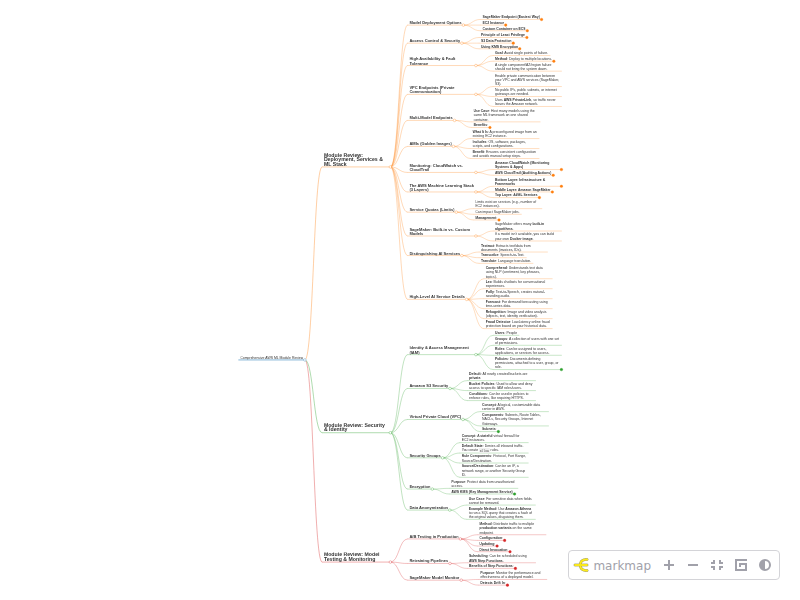
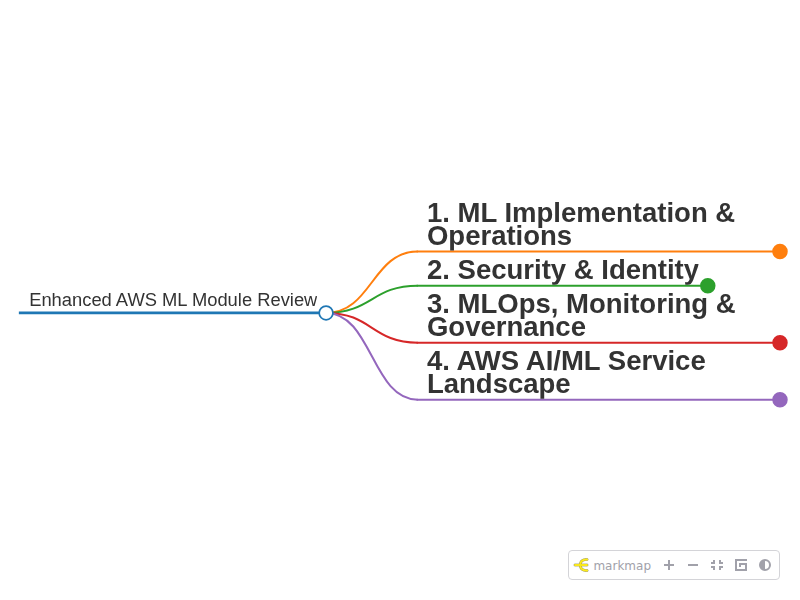
docs(mindmap): Auto-generate assets for 04-ml-impl-ops

Changed region(s): [[0.0312, 0.0, 1.0, 0.99], [0.3125, 0.57, 0.375, 0.6]]

diff --git a/04-ml-impl-ops/img/mindmap.html b/04-ml-impl-ops/img/mindmap.html
@@ -47,6 +47,6 @@ html {
               if (window.matchMedia("(prefers-color-scheme: dark)").matches) {
                 document.documentElement.classList.add("markmap-dark");
               }
-            })(() => window.markmap,null,{"content":"Comprehensive AWS ML Module Review","children":[{"content":"\n<h2 data-lines=\"10,11\">Module Review: Deployment, Services &amp; ML Stack</h2>","children":[{"content":"\n<h3 data-lines=\"11,12\">Model Deployment Options</h3>","children":[{"content":"\n<h4 data-lines=\"12,13\">SageMaker Endpoint (Easiest Way)</h4>","children":[{"content":"Deploys model to a container on ECS, running on EC2.","children":[],"payload":{"tag":"li","lines":"13,14"}},{"content":"Fully managed by <strong>SageMaker</strong>.","children":[],"payload":{"tag":"li","lines":"14,15"}}],"payload":{"tag":"li","lines":"12,15"}},{"content":"\n<h4 data-lines=\"15,16\">EC2 Instance</h4>","children":[{"content":"Use <strong>Deep Learning AMIs</strong>.","children":[],"payload":{"tag":"li","lines":"16,17"}},{"content":"Select a <strong>Deep Learning instance type</strong> (e.g., P5).","children":[],"payload":{"tag":"li","lines":"17,18"}}],"payload":{"tag":"li","lines":"15,18"}},{"content":"\n<h4 data-lines=\"18,19\">Custom Container on ECS</h4>","children":[{"content":"Build and run it yourself in Elastic Container Service.","children":[],"payload":{"tag":"li","lines":"19,20"}}],"payload":{"tag":"li","lines":"18,20"}}],"payload":{"tag":"li","lines":"11,20"}},{"content":"\n<h3 data-lines=\"20,21\">Access Control &amp; Security</h3>","children":[{"content":"\n<h4 data-lines=\"21,22\">Principle of Least Privilege</h4>","children":[{"content":"Grant only the permissions needed to perform a role.","children":[],"payload":{"tag":"li","lines":"22,23"}},{"content":"SageMaker supports <strong>Execution Roles</strong> for this.","children":[],"payload":{"tag":"li","lines":"23,24"}}],"payload":{"tag":"li","lines":"21,24"}},{"content":"\n<h4 data-lines=\"24,25\">S3 Data Protection</h4>","children":[{"content":"Use <strong>encryption</strong>.","children":[],"payload":{"tag":"li","lines":"25,26"}},{"content":"Use properly configured <strong>bucket policies</strong>.","children":[],"payload":{"tag":"li","lines":"26,27"}}],"payload":{"tag":"li","lines":"24,27"}},{"content":"\n<h4 data-lines=\"27,28\">Using KMS Encryption</h4>","children":[{"content":"If using customer-managed KMS keys on S3:","children":[{"content":"The role accessing the data <strong>must</strong> have <code>encrypt</code> and <code>decrypt</code> permissions for that specific KMS key.","children":[],"payload":{"tag":"li","lines":"29,30"}}],"payload":{"tag":"li","lines":"28,30"}}],"payload":{"tag":"li","lines":"27,30"}}],"payload":{"tag":"li","lines":"20,30"}},{"content":"\n<h3 data-lines=\"30,31\">High Availability &amp; Fault Tolerance</h3>","children":[{"content":"<strong>Goal</strong>: Avoid single points of failure.","children":[],"payload":{"tag":"li","lines":"31,32"}},{"content":"<strong>Method</strong>: Deploy to multiple locations.","children":[{"content":"Multiple <strong>Availability Zones (AZs)</strong>.","children":[],"payload":{"tag":"li","lines":"33,34"}},{"content":"Multiple <strong>Regions</strong>.","children":[],"payload":{"tag":"li","lines":"34,35"}}],"payload":{"tag":"li","lines":"32,35"}},{"content":"A single component/AZ/region failure should not bring the system down.","children":[],"payload":{"tag":"li","lines":"35,36"}}],"payload":{"tag":"li","lines":"30,36"}},{"content":"\n<h3 data-lines=\"36,37\">VPC Endpoints (Private Communication)</h3>","children":[{"content":"Enable private communication between your VPC and AWS services (SageMaker, S3).","children":[],"payload":{"tag":"li","lines":"37,38"}},{"content":"No public IPs, public subnets, or internet gateways are needed.","children":[],"payload":{"tag":"li","lines":"38,39"}},{"content":"Uses <strong>AWS PrivateLink</strong>, so traffic never leaves the Amazon network.","children":[],"payload":{"tag":"li","lines":"39,40"}}],"payload":{"tag":"li","lines":"36,40"}},{"content":"\n<h3 data-lines=\"40,41\">Multi-Model Endpoints</h3>","children":[{"content":"<strong>Use Case</strong>: Host many models using the same ML framework on one shared container.","children":[],"payload":{"tag":"li","lines":"41,42"}},{"content":"<strong>Benefits</strong>:","children":[{"content":"<strong>Cost-Effective</strong>: Better container utilization, avoids deploying a new endpoint for each model.","children":[],"payload":{"tag":"li","lines":"43,44"}},{"content":"<strong>Reduced Admin Overhead</strong>: Only one endpoint to manage.","children":[],"payload":{"tag":"li","lines":"44,45"}}],"payload":{"tag":"li","lines":"42,45"}}],"payload":{"tag":"li","lines":"40,45"}},{"content":"\n<h3 data-lines=\"45,46\">AMIs (Golden Images)</h3>","children":[{"content":"<strong>What It Is</strong>: A preconfigured image from an existing EC2 instance.","children":[],"payload":{"tag":"li","lines":"46,47"}},{"content":"<strong>Includes</strong>: OS, software, packages, scripts, and configurations.","children":[],"payload":{"tag":"li","lines":"47,48"}},{"content":"<strong>Benefit</strong>: Ensures consistent configuration and avoids manual setup steps.","children":[],"payload":{"tag":"li","lines":"48,49"}}],"payload":{"tag":"li","lines":"45,49"}},{"content":"\n<h3 data-lines=\"49,50\">Monitoring: CloudWatch vs. CloudTrail</h3>","children":[{"content":"\n<h4 data-lines=\"50,51\">Amazon CloudWatch (Monitoring Systems &amp; Apps)</h4>","children":[{"content":"Collects <strong>near-real-time utilization metrics</strong> (CPU, Memory, GPU).","children":[],"payload":{"tag":"li","lines":"51,52"}},{"content":"<strong>CloudWatch Logs</strong>: Collects system and application logs.","children":[],"payload":{"tag":"li","lines":"52,53"}},{"content":"<strong>CloudWatch Events</strong> (EventBridge): Notifies on status changes.","children":[],"payload":{"tag":"li","lines":"53,54"}},{"content":"<strong>CloudWatch Alarms</strong>: Alerts and sends notifications (via SNS/SES) when a threshold is breached.","children":[],"payload":{"tag":"li","lines":"54,55"}}],"payload":{"tag":"li","lines":"50,55"}},{"content":"\n<h4 data-lines=\"55,56\">AWS CloudTrail (Auditing Actions)</h4>","children":[{"content":"Provides an <strong>audit trail</strong> of actions in your AWS account.","children":[],"payload":{"tag":"li","lines":"56,57"}},{"content":"Logs actions/API calls by users, roles, or services.","children":[],"payload":{"tag":"li","lines":"57,58"}},{"content":"<strong>Examples</strong>: <code>CreateTrainingJob</code>, <code>CreateModel</code>, <code>CreateEndpoint</code>.","children":[],"payload":{"tag":"li","lines":"58,59"}},{"content":"<strong>To store logs indefinitely</strong>: Create a <strong>trail</strong> to save logs to an S3 bucket.","children":[],"payload":{"tag":"li","lines":"59,60"}}],"payload":{"tag":"li","lines":"55,60"}}],"payload":{"tag":"li","lines":"49,60"}},{"content":"\n<h3 data-lines=\"60,61\">The AWS Machine Learning Stack (3 Layers)</h3>","children":[{"content":"\n<h4 data-lines=\"61,62\">Bottom Layer: Infrastructure &amp; Frameworks</h4>","children":[{"content":"<strong>For</strong>: ML experts wanting full control.","children":[],"payload":{"tag":"li","lines":"62,63"}},{"content":"<strong>Services</strong>: EC2 (w/ GPUs), ECS, Deep Learning AMIs, Docker.","children":[],"payload":{"tag":"li","lines":"63,64"}}],"payload":{"tag":"li","lines":"61,64"}},{"content":"\n<h4 data-lines=\"64,65\">Middle Layer: Amazon SageMaker</h4>","children":[{"content":"<strong>For</strong>: Removing the heavy lifting in the ML lifecycle.","children":[],"payload":{"tag":"li","lines":"65,66"}}],"payload":{"tag":"li","lines":"64,66"}},{"content":"\n<h4 data-lines=\"66,67\">Top Layer: AI/ML Services</h4>","children":[{"content":"<strong>For</strong>: Customers who don&apos;t want to build/train models.","children":[],"payload":{"tag":"li","lines":"67,68"}},{"content":"<strong>Services</strong>: Textract, Transcribe, Translate, Lex, Polly, Rekognition, Comprehend.","children":[],"payload":{"tag":"li","lines":"68,69"}}],"payload":{"tag":"li","lines":"66,69"}}],"payload":{"tag":"li","lines":"60,69"}},{"content":"\n<h3 data-lines=\"69,70\">Service Quotas (Limits)</h3>","children":[{"content":"Limits exist on services (e.g., number of EC2 instances).","children":[],"payload":{"tag":"li","lines":"70,71"}},{"content":"Can impact SageMaker jobs.","children":[],"payload":{"tag":"li","lines":"71,72"}},{"content":"<strong>Management</strong>:","children":[{"content":"Request quota increases in the AWS Console.","children":[],"payload":{"tag":"li","lines":"73,74"}},{"content":"Check limits with <strong>Trusted Advisor</strong>.","children":[],"payload":{"tag":"li","lines":"74,75"}}],"payload":{"tag":"li","lines":"72,75"}}],"payload":{"tag":"li","lines":"69,75"}},{"content":"\n<h3 data-lines=\"75,76\">SageMaker: Built-in vs. Custom Models</h3>","children":[{"content":"SageMaker offers many <strong>built-in algorithms</strong>.","children":[],"payload":{"tag":"li","lines":"76,77"}},{"content":"If a model isn&apos;t available, you can build your own <strong>Docker image</strong>.","children":[],"payload":{"tag":"li","lines":"77,78"}}],"payload":{"tag":"li","lines":"75,78"}},{"content":"\n<h3 data-lines=\"78,79\">Distinguishing AI Services</h3>","children":[{"content":"<strong>Textract</strong>: Extracts text/data from documents (invoices, IDs).","children":[],"payload":{"tag":"li","lines":"79,80"}},{"content":"<strong>Transcribe</strong>: Speech-to-Text.","children":[],"payload":{"tag":"li","lines":"80,81"}},{"content":"<strong>Translate</strong>: Language translation.","children":[],"payload":{"tag":"li","lines":"81,82"}}],"payload":{"tag":"li","lines":"78,82"}},{"content":"\n<h3 data-lines=\"82,83\">High-Level AI Service Details</h3>","children":[{"content":"<strong>Comprehend</strong>: Understands text data using NLP (sentiment, key phrases, topics).","children":[],"payload":{"tag":"li","lines":"83,84"}},{"content":"<strong>Lex</strong>: Builds chatbots for conversational experiences.","children":[],"payload":{"tag":"li","lines":"84,85"}},{"content":"<strong>Polly</strong>: Text-to-Speech, creates natural-sounding audio.","children":[],"payload":{"tag":"li","lines":"85,86"}},{"content":"<strong>Forecast</strong>: For demand forecasting using time-series data.","children":[],"payload":{"tag":"li","lines":"86,87"}},{"content":"<strong>Rekognition</strong>: Image and video analysis (objects, text, identity verification).","children":[],"payload":{"tag":"li","lines":"87,88"}},{"content":"<strong>Fraud Detector</strong>: Low-latency online fraud protection based on your historical data.","children":[],"payload":{"tag":"li","lines":"88,90"}}],"payload":{"tag":"li","lines":"82,90"}}],"payload":{"tag":"li","lines":"10,90"}},{"content":"\n<h2 data-lines=\"90,91\">Module Review: Security &amp; Identity</h2>","children":[{"content":"\n<h3 data-lines=\"91,92\">Identity &amp; Access Management (IAM)</h3>","children":[{"content":"<strong>Users</strong>: People","children":[],"payload":{"tag":"li","lines":"92,93"}},{"content":"<strong>Groups</strong>: A collection of users with one set of permissions.","children":[],"payload":{"tag":"li","lines":"93,94"}},{"content":"<strong>Roles</strong>: Can be assigned to users, applications, or services for access.","children":[],"payload":{"tag":"li","lines":"94,95"}},{"content":"<strong>Policies</strong>: Documents defining permissions, attached to a user, group, or role.","children":[{"content":"Can include <strong>conditions</strong> to limit access.","children":[],"payload":{"tag":"li","lines":"96,97"}}],"payload":{"tag":"li","lines":"95,97"}}],"payload":{"tag":"li","lines":"91,97"}},{"content":"\n<h3 data-lines=\"97,98\">Amazon S3 Security</h3>","children":[{"content":"<strong>Default</strong>: All newly created buckets are <strong>private</strong>.","children":[],"payload":{"tag":"li","lines":"98,99"}},{"content":"<strong>Bucket Policies</strong>: Used to allow and deny access to specific IAM roles/users.","children":[],"payload":{"tag":"li","lines":"99,100"}},{"content":"<strong>Conditions</strong>: Can be used in policies to enforce rules, like requiring HTTPS.","children":[],"payload":{"tag":"li","lines":"100,101"}}],"payload":{"tag":"li","lines":"97,101"}},{"content":"\n<h3 data-lines=\"101,102\">Virtual Private Cloud (VPC)</h3>","children":[{"content":"<strong>Concept</strong>: A logical, customizable data center in AWS.","children":[],"payload":{"tag":"li","lines":"102,103"}},{"content":"<strong>Components</strong>: Subnets, Route Tables, NACLs, Security Groups, Internet Gateways.","children":[],"payload":{"tag":"li","lines":"103,104"}},{"content":"<strong>Subnets</strong>:","children":[{"content":"<strong>Public</strong>: Has a route to an Internet Gateway for public access.","children":[],"payload":{"tag":"li","lines":"105,106"}},{"content":"<strong>Private</strong>: No Internet Gateway; may have outbound internet via a <strong>NAT Gateway</strong>.","children":[],"payload":{"tag":"li","lines":"106,107"}}],"payload":{"tag":"li","lines":"104,107"}}],"payload":{"tag":"li","lines":"101,107"}},{"content":"\n<h3 data-lines=\"107,108\">Security Groups</h3>","children":[{"content":"<strong>Concept</strong>: A <strong>stateful</strong> virtual firewall for EC2 instances.","children":[],"payload":{"tag":"li","lines":"108,109"}},{"content":"<strong>Default State</strong>: Denies all inbound traffic. You create <code>allow</code> rules.","children":[],"payload":{"tag":"li","lines":"109,110"}},{"content":"<strong>Rule Components</strong>: Protocol, Port Range, Source/Destination.","children":[],"payload":{"tag":"li","lines":"110,111"}},{"content":"<strong>Source/Destination</strong>: Can be an IP, a network range, or another Security Group ID.","children":[],"payload":{"tag":"li","lines":"111,112"}}],"payload":{"tag":"li","lines":"107,112"}},{"content":"\n<h3 data-lines=\"112,113\">Encryption</h3>","children":[{"content":"<strong>Purpose</strong>: Protect data from unauthorized access.","children":[],"payload":{"tag":"li","lines":"113,114"}},{"content":"<strong>AWS KMS (Key Management Service)</strong>","children":[{"content":"Uses <strong>Envelope Encryption</strong>:","children":[{"content":"1. A <strong>Customer Master Key (CMK)</strong> encrypts...","children":[],"payload":{"tag":"li","lines":"116,117","listIndex":1}},{"content":"2. a <strong>Data Key</strong>, which then...","children":[],"payload":{"tag":"li","lines":"117,118","listIndex":2}},{"content":"3. encrypts your actual data.","children":[],"payload":{"tag":"li","lines":"118,119","listIndex":3}}],"payload":{"tag":"li","lines":"115,119"}},{"content":"<strong>Key Policies</strong>: Control which users and roles can use the keys to encrypt/decrypt.","children":[],"payload":{"tag":"li","lines":"119,120"}}],"payload":{"tag":"li","lines":"114,120"}}],"payload":{"tag":"li","lines":"112,120"}},{"content":"\n<h3 data-lines=\"120,121\">Data Anonymization</h3>","children":[{"content":"<strong>Use Case</strong>: For sensitive data when fields cannot be removed.","children":[],"payload":{"tag":"li","lines":"121,122"}},{"content":"<strong>Example Method</strong>: Use <strong>Amazon Athena</strong> to run a SQL query that creates a hash of the original values, disguising them.","children":[],"payload":{"tag":"li","lines":"122,124"}}],"payload":{"tag":"li","lines":"120,124"}}],"payload":{"tag":"li","lines":"90,124"}},{"content":"\n<h2 data-lines=\"124,125\">Module Review: Model Testing &amp; Monitoring</h2>","children":[{"content":"\n<h3 data-lines=\"125,126\">A/B Testing in Production</h3>","children":[{"content":"<strong>Method</strong>: Distribute traffic to multiple <strong>production variants</strong> on the same endpoint.","children":[],"payload":{"tag":"li","lines":"126,127"}},{"content":"<strong>Configuration</strong>:","children":[{"content":"Specify a <strong>weight</strong> for each variant in the endpoint configuration (e.g., <code>0.2</code> for 20%, <code>0.8</code> for 80%).","children":[],"payload":{"tag":"li","lines":"128,129"}},{"content":"SageMaker automatically routes requests based on the weights.","children":[],"payload":{"tag":"li","lines":"129,130"}}],"payload":{"tag":"li","lines":"127,130"}},{"content":"<strong>Updating</strong>:","children":[{"content":"Update weights in the endpoint configuration.","children":[],"payload":{"tag":"li","lines":"131,132"}},{"content":"<strong>No application code change is needed.</strong>","children":[],"payload":{"tag":"li","lines":"132,133"}}],"payload":{"tag":"li","lines":"130,133"}},{"content":"<strong>Direct Invocation</strong>:","children":[{"content":"Invoke a specific model version by specifying the <code>TargetVariant</code> in the <code>invoke_endpoint</code> API call.","children":[],"payload":{"tag":"li","lines":"134,135"}}],"payload":{"tag":"li","lines":"133,135"}}],"payload":{"tag":"li","lines":"125,135"}},{"content":"\n<h3 data-lines=\"135,136\">Retraining Pipelines</h3>","children":[{"content":"<strong>Scheduling</strong>: Can be scheduled using <strong>AWS Step Functions</strong>.","children":[],"payload":{"tag":"li","lines":"136,137"}},{"content":"<strong>Benefits of Step Functions</strong>:","children":[{"content":"Visualize the ML pipeline.","children":[],"payload":{"tag":"li","lines":"138,139"}},{"content":"Automatically trigger and track each step.","children":[],"payload":{"tag":"li","lines":"139,140"}},{"content":"Output of one step becomes the input to the next.","children":[],"payload":{"tag":"li","lines":"140,141"}},{"content":"Logs the state of each step for easier debugging.","children":[],"payload":{"tag":"li","lines":"141,142"}}],"payload":{"tag":"li","lines":"137,142"}}],"payload":{"tag":"li","lines":"135,142"}},{"content":"\n<h3 data-lines=\"142,143\">SageMaker Model Monitor</h3>","children":[{"content":"<strong>Purpose</strong>: Monitor the performance and effectiveness of a deployed model.","children":[],"payload":{"tag":"li","lines":"143,144"}},{"content":"<strong>Detects Drift In</strong>:","children":[{"content":"<strong>Data Quality</strong>: Production data distribution changes from training data.","children":[],"payload":{"tag":"li","lines":"145,146"}},{"content":"<strong>Model Quality</strong>: Metrics like accuracy or precision degrade.","children":[],"payload":{"tag":"li","lines":"146,147"}},{"content":"<strong>Bias</strong>: Bias is introduced as production data changes.","children":[],"payload":{"tag":"li","lines":"147,148"}},{"content":"<strong>Feature Attribution</strong>: The relative importance of features changes.","children":[],"payload":{"tag":"li","lines":"148,149"}}],"payload":{"tag":"li","lines":"144,149"}}],"payload":{"tag":"li","lines":"142,149"}}],"payload":{"tag":"li","lines":"124,149"}}],"payload":{"tag":"h1","lines":"8,9"}},{"colorFreezeLevel":2,"initialExpandLevel":4,"maxWidth":300})</script>
+            })(() => window.markmap,null,{"content":"Enhanced AWS ML Module Review","children":[{"content":"\n<h2 data-lines=\"10,11\">1. ML Implementation &amp; Operations</h2>","children":[{"content":"\n<h3 data-lines=\"11,12\">Model Deployment Strategies</h3>","children":[{"content":"\n<h4 data-lines=\"12,13\"><strong>SageMaker Hosted Endpoints</strong> (Real-time Inference)</h4>","children":[{"content":"The easiest way to deploy a model.","children":[],"payload":{"tag":"li","lines":"13,14"}},{"content":"Creates a persistent HTTPS endpoint for on-demand predictions.","children":[],"payload":{"tag":"li","lines":"14,15"}},{"content":"<strong>How it works</strong>: Deploys a model to a container on <strong>ECS</strong>, running on <strong>EC2</strong>. Fully managed by SageMaker.","children":[],"payload":{"tag":"li","lines":"15,16"}},{"content":"<strong>Deployment</strong>: Use the <code>deploy()</code> method in the Python SDK.","children":[],"payload":{"tag":"li","lines":"16,17"}}],"payload":{"tag":"li","lines":"12,17"}},{"content":"\n<h4 data-lines=\"17,18\"><strong>SageMaker Serverless Inference</strong></h4>","children":[{"content":"<strong>Use Case</strong>: For workloads with intermittent or unpredictable traffic and idle periods.","children":[],"payload":{"tag":"li","lines":"18,19"}},{"content":"<strong>Benefit</strong>: Pay-per-use, automatically scales compute resources. Can tolerate cold starts.","children":[],"payload":{"tag":"li","lines":"19,20"}}],"payload":{"tag":"li","lines":"17,20"}},{"content":"\n<h4 data-lines=\"20,21\"><strong>SageMaker Batch Transform</strong></h4>","children":[{"content":"<strong>Use Case</strong>: Run inference on an entire dataset at once (offline).","children":[],"payload":{"tag":"li","lines":"21,22"}},{"content":"<strong>Benefit</strong>: No persistent endpoint needed. Manages provisioning and de-provisioning of resources.","children":[],"payload":{"tag":"li","lines":"22,23"}},{"content":"Can also be used to pre-process datasets or associate input records with inference results.","children":[],"payload":{"tag":"li","lines":"23,24"}}],"payload":{"tag":"li","lines":"20,24"}},{"content":"\n<h4 data-lines=\"24,25\"><strong>Manual Deployment Options</strong></h4>","children":[{"content":"<strong>EC2 Instance</strong>: Use <strong>Deep Learning AMIs</strong> (pre-configured with frameworks like TensorFlow, PyTorch) and select a powerful instance type (e.g., P5 with GPUs).","children":[],"payload":{"tag":"li","lines":"25,26"}},{"content":"<strong>Custom Container on ECS</strong>: Build your own Docker container and deploy it on Elastic Container Service for full control.","children":[],"payload":{"tag":"li","lines":"26,27"}}],"payload":{"tag":"li","lines":"24,27"}}],"payload":{"tag":"li","lines":"11,27"}},{"content":"\n<h3 data-lines=\"27,28\">Scalability &amp; Resiliency</h3>","children":[{"content":"\n<h4 data-lines=\"28,29\"><strong>High Availability &amp; Fault Tolerance</strong></h4>","children":[{"content":"<strong>Goal</strong>: Avoid single points of failure. Design for failure (&quot;Everything fails all the time&quot;).","children":[],"payload":{"tag":"li","lines":"29,30"}},{"content":"<strong>Method</strong>: Deploy resources to multiple locations.","children":[{"content":"Multiple <strong>Availability Zones (AZs)</strong> to protect against instance/AZ failure.","children":[],"payload":{"tag":"li","lines":"31,32"}},{"content":"Multiple <strong>Regions</strong> to protect against regional failure.","children":[],"payload":{"tag":"li","lines":"32,33"}}],"payload":{"tag":"li","lines":"30,33"}},{"content":"<strong>Best Practice</strong>: Use a greater number of smaller instance types instead of fewer larger ones to minimize the impact of a single instance failure.","children":[],"payload":{"tag":"li","lines":"33,34"}},{"content":"<strong>Reference</strong>: AWS Well-Architected Framework.","children":[],"payload":{"tag":"li","lines":"34,35"}}],"payload":{"tag":"li","lines":"28,35"}},{"content":"\n<h4 data-lines=\"35,36\"><strong>Auto Scaling Model Endpoints</strong></h4>","children":[{"content":"<strong>How it works</strong>: Automatically adjusts the number of instances in response to traffic.","children":[],"payload":{"tag":"li","lines":"36,37"}},{"content":"<strong>Configuration</strong>: Define a scaling policy based on a metric, such as <code>SageMakerVariantInvocationsPerInstance</code>.","children":[],"payload":{"tag":"li","lines":"37,38"}},{"content":"SageMaker automatically load balances requests across all instances.","children":[],"payload":{"tag":"li","lines":"38,39"}}],"payload":{"tag":"li","lines":"35,39"}},{"content":"\n<h4 data-lines=\"39,40\"><strong>Multi-Model Endpoints</strong></h4>","children":[{"content":"<strong>Use Case</strong>: Host many models that use the same ML framework on one shared container.","children":[],"payload":{"tag":"li","lines":"40,41"}},{"content":"<strong>Benefits</strong>:","children":[{"content":"<strong>Cost-Effective</strong>: Improves container utilization, avoiding a new endpoint for each model.","children":[],"payload":{"tag":"li","lines":"42,43"}},{"content":"<strong>Reduced Overhead</strong>: Manage one endpoint instead of many.","children":[],"payload":{"tag":"li","lines":"43,44"}}],"payload":{"tag":"li","lines":"41,44"}}],"payload":{"tag":"li","lines":"39,44"}}],"payload":{"tag":"li","lines":"27,44"}},{"content":"\n<h3 data-lines=\"44,45\">Model Testing in Production</h3>","children":[{"content":"\n<h4 data-lines=\"45,46\"><strong>A/B Testing (Production Variants)</strong></h4>","children":[{"content":"<strong>Method</strong>: Distribute traffic to multiple model versions on the same endpoint.","children":[],"payload":{"tag":"li","lines":"46,47"}},{"content":"<strong>Configuration</strong>: Assign a <strong>weight</strong> to each <strong>production variant</strong> (e.g., 20% to model A, 80% to model B).","children":[],"payload":{"tag":"li","lines":"47,48"}},{"content":"<strong>Updating</strong>: Weights can be updated without any application code changes.","children":[],"payload":{"tag":"li","lines":"48,49"}},{"content":"<strong>Direct Invocation</strong>: Call a specific model version using the <code>TargetVariant</code> parameter.","children":[],"payload":{"tag":"li","lines":"49,51"}}],"payload":{"tag":"li","lines":"45,51"}}],"payload":{"tag":"li","lines":"44,51"}}],"payload":{"tag":"li","lines":"10,51"}},{"content":"\n<h2 data-lines=\"51,52\">2. Security &amp; Identity</h2>","children":[{"content":"\n<h3 data-lines=\"52,53\">Identity &amp; Access Management (IAM)</h3>","children":[{"content":"<strong>Principle of Least Privilege</strong>: Grant only the permissions an entity (user, role, service) needs to perform its function.","children":[],"payload":{"tag":"li","lines":"53,54"}},{"content":"<strong>SageMaker Execution Roles</strong>: An IAM role that grants SageMaker permission to perform operations on your behalf (e.g., reading data from S3, writing model artifacts).","children":[{"content":"The default <code>AmazonSagemakerFullAccess</code> policy grants broad permissions; it&apos;s best practice to create more restrictive, custom policies.","children":[],"payload":{"tag":"li","lines":"55,56"}}],"payload":{"tag":"li","lines":"54,56"}}],"payload":{"tag":"li","lines":"52,56"}},{"content":"\n<h3 data-lines=\"56,57\">Data &amp; Network Protection</h3>","children":[{"content":"\n<h4 data-lines=\"57,58\"><strong>Amazon S3 Security</strong></h4>","children":[{"content":"<strong>Default</strong>: All S3 buckets are <strong>private</strong>.","children":[],"payload":{"tag":"li","lines":"58,59"}},{"content":"<strong>Bucket Policies</strong>: Define fine-grained access permissions for users and roles.","children":[],"payload":{"tag":"li","lines":"59,60"}},{"content":"<strong>Conditions</strong>: Can be used in policies to enforce rules, like requiring HTTPS.","children":[],"payload":{"tag":"li","lines":"60,61"}}],"payload":{"tag":"li","lines":"57,61"}},{"content":"\n<h4 data-lines=\"61,62\"><strong>Encryption with AWS KMS</strong></h4>","children":[{"content":"<strong>How it works</strong>: KMS uses <strong>Envelope Encryption</strong> (a Customer Master Key encrypts a Data Key, which encrypts your data).","children":[],"payload":{"tag":"li","lines":"62,63"}},{"content":"<strong>Key Policies</strong>: Control which users and roles can use KMS keys.","children":[],"payload":{"tag":"li","lines":"63,64"}},{"content":"<strong>Critical for SageMaker</strong>: If you use a customer-managed KMS key for S3 data, the SageMaker Execution Role <strong>must</strong> have <code>encrypt</code> and <code>decrypt</code> permissions in the key&apos;s policy.","children":[],"payload":{"tag":"li","lines":"64,65"}}],"payload":{"tag":"li","lines":"61,65"}},{"content":"\n<h4 data-lines=\"65,66\"><strong>VPC &amp; Private Communication</strong></h4>","children":[{"content":"<strong>Virtual Private Cloud (VPC)</strong>: Your logical, isolated data center in AWS.","children":[],"payload":{"tag":"li","lines":"66,67"}},{"content":"<strong>VPC Endpoints (AWS PrivateLink)</strong>","children":[{"content":"Enables <strong>private and secure communication</strong> between your VPC and AWS services (like SageMaker and S3).","children":[],"payload":{"tag":"li","lines":"68,69"}},{"content":"Traffic <strong>never leaves the Amazon network</strong>; no internet gateway, public IPs, or public subnets are needed.","children":[],"payload":{"tag":"li","lines":"69,70"}}],"payload":{"tag":"li","lines":"67,70"}}],"payload":{"tag":"li","lines":"65,70"}}],"payload":{"tag":"li","lines":"56,70"}},{"content":"\n<h3 data-lines=\"70,71\">Other Security Concepts</h3>","children":[{"content":"<strong>Data Anonymization</strong>: Techniques like hashing values with Amazon Athena to protect sensitive data that cannot be removed.","children":[],"payload":{"tag":"li","lines":"71,72"}},{"content":"<strong>Security Groups</strong>: A stateful virtual firewall for EC2 instances that controls inbound and outbound traffic.","children":[],"payload":{"tag":"li","lines":"72,74"}}],"payload":{"tag":"li","lines":"70,74"}}],"payload":{"tag":"li","lines":"51,74"}},{"content":"\n<h2 data-lines=\"74,75\">3. MLOps, Monitoring &amp; Governance</h2>","children":[{"content":"\n<h3 data-lines=\"75,76\">Monitoring vs. Auditing</h3>","children":[{"content":"\n<h4 data-lines=\"76,77\"><strong>Amazon CloudWatch (Monitoring)</strong></h4>","children":[{"content":"<strong>Purpose</strong>: Monitors the <strong>performance and health</strong> of systems and applications.","children":[],"payload":{"tag":"li","lines":"77,78"}},{"content":"<strong>Metrics</strong>: Collects near-real-time utilization metrics (CPU, Memory, GPU) for SageMaker instances.","children":[],"payload":{"tag":"li","lines":"78,79"}},{"content":"<strong>CloudWatch Logs</strong>: Centralizes, monitors, and stores log files.","children":[],"payload":{"tag":"li","lines":"79,80"}},{"content":"<strong>CloudWatch Events (EventBridge)</strong>: Responds to system events and state changes (e.g., a training job completing).","children":[],"payload":{"tag":"li","lines":"80,81"}},{"content":"<strong>CloudWatch Alarms</strong>: Sends notifications (via SNS/SES) when a metric breaches a defined threshold.","children":[],"payload":{"tag":"li","lines":"81,82"}}],"payload":{"tag":"li","lines":"76,82"}},{"content":"\n<h4 data-lines=\"82,83\"><strong>AWS CloudTrail (Auditing)</strong></h4>","children":[{"content":"<strong>Purpose</strong>: Provides a <strong>governance and audit trail</strong> of actions in your AWS account.","children":[],"payload":{"tag":"li","lines":"83,84"}},{"content":"<strong>What it logs</strong>: API calls made by users, roles, or services (e.g., <code>CreateTrainingJob</code>, <code>CreateModel</code>, <code>CreateEndpoint</code>).","children":[],"payload":{"tag":"li","lines":"84,85"}},{"content":"<strong>Long-term storage</strong>: Create a <strong>trail</strong> to save logs indefinitely to an S3 bucket.","children":[],"payload":{"tag":"li","lines":"85,86"}}],"payload":{"tag":"li","lines":"82,86"}}],"payload":{"tag":"li","lines":"75,86"}},{"content":"\n<h3 data-lines=\"86,87\">Advanced Customization &amp; Automation</h3>","children":[{"content":"\n<h4 data-lines=\"87,88\"><strong>Custom Docker Containers</strong></h4>","children":[{"content":"<strong>Use Case</strong>: When a pre-built SageMaker container doesn&apos;t fit your needs (e.g., custom algorithm, specific library versions).","children":[],"payload":{"tag":"li","lines":"88,89"}},{"content":"<strong>Process</strong>:","children":[{"content":"1. Write a <code>Dockerfile</code>.","children":[],"payload":{"tag":"li","lines":"90,91","listIndex":1}},{"content":"2. Build the Docker image.","children":[],"payload":{"tag":"li","lines":"91,92","listIndex":2}},{"content":"3. Push the image to <strong>Amazon Elastic Container Registry (ECR)</strong>.","children":[],"payload":{"tag":"li","lines":"92,93","listIndex":3}},{"content":"4. Use the ECR image URI in your SageMaker training or deployment job.","children":[],"payload":{"tag":"li","lines":"93,94","listIndex":4}}],"payload":{"tag":"li","lines":"89,94"}}],"payload":{"tag":"li","lines":"87,94"}},{"content":"\n<h4 data-lines=\"94,95\"><strong>Golden Images (AMIs)</strong></h4>","children":[{"content":"<strong>What It Is</strong>: A pre-configured Amazon Machine Image from an existing EC2 instance.","children":[],"payload":{"tag":"li","lines":"95,96"}},{"content":"<strong>Includes</strong>: OS, software, packages, scripts, and configurations.","children":[],"payload":{"tag":"li","lines":"96,97"}},{"content":"<strong>Benefit</strong>: Ensures consistent configuration, avoids manual setup, and is used with Auto Scaling.","children":[],"payload":{"tag":"li","lines":"97,98"}}],"payload":{"tag":"li","lines":"94,98"}},{"content":"\n<h4 data-lines=\"98,99\"><strong>Retraining Pipelines with AWS Step Functions</strong></h4>","children":[{"content":"<strong>Purpose</strong>: Orchestrate and automate the entire ML workflow (data pre-processing, training, evaluation, deployment).","children":[],"payload":{"tag":"li","lines":"99,100"}},{"content":"<strong>Benefits</strong>: Visualizes the pipeline, logs each step&apos;s state for debugging, and manages dependencies.","children":[],"payload":{"tag":"li","lines":"100,101"}}],"payload":{"tag":"li","lines":"98,101"}}],"payload":{"tag":"li","lines":"86,101"}},{"content":"\n<h3 data-lines=\"101,102\">SageMaker Model Monitor</h3>","children":[{"content":"<strong>Purpose</strong>: Continuously monitor a deployed model for drift.","children":[],"payload":{"tag":"li","lines":"102,103"}},{"content":"<strong>Detects Drift In</strong>:","children":[{"content":"<strong>Data Quality</strong>: Changes in the production data distribution.","children":[],"payload":{"tag":"li","lines":"104,105"}},{"content":"<strong>Model Quality</strong>: Degradation in performance metrics (e.g., accuracy).","children":[],"payload":{"tag":"li","lines":"105,106"}},{"content":"<strong>Bias</strong>: Introduction of bias as data changes.","children":[],"payload":{"tag":"li","lines":"106,107"}},{"content":"<strong>Feature Attribution</strong>: Changes in feature importance.","children":[],"payload":{"tag":"li","lines":"107,109"}}],"payload":{"tag":"li","lines":"103,109"}}],"payload":{"tag":"li","lines":"101,109"}}],"payload":{"tag":"li","lines":"74,109"}},{"content":"\n<h2 data-lines=\"109,110\">4. AWS AI/ML Service Landscape</h2>","children":[{"content":"\n<h3 data-lines=\"110,111\">The AWS Machine Learning Stack (3 Layers)</h3>","children":[{"content":"\n<h4 data-lines=\"111,112\"><strong>Bottom Layer: Infrastructure &amp; Frameworks</strong></h4>","children":[{"content":"<strong>For</strong>: ML experts wanting full control.","children":[],"payload":{"tag":"li","lines":"112,113"}},{"content":"<strong>Services</strong>: EC2 (w/ GPUs), ECS, Deep Learning AMIs, Docker.","children":[],"payload":{"tag":"li","lines":"113,114"}}],"payload":{"tag":"li","lines":"111,114"}},{"content":"\n<h4 data-lines=\"114,115\"><strong>Middle Layer: Amazon SageMaker</strong></h4>","children":[{"content":"<strong>For</strong>: Developers and data scientists wanting to streamline the ML lifecycle.","children":[],"payload":{"tag":"li","lines":"115,116"}}],"payload":{"tag":"li","lines":"114,116"}},{"content":"\n<h4 data-lines=\"116,117\"><strong>Top Layer: AI/ML Services</strong></h4>","children":[{"content":"<strong>For</strong>: Customers who want to add intelligence to apps without building/training models.","children":[],"payload":{"tag":"li","lines":"117,118"}}],"payload":{"tag":"li","lines":"116,118"}}],"payload":{"tag":"li","lines":"110,118"}},{"content":"\n<h3 data-lines=\"118,119\">High-Level AI Service Details</h3>","children":[{"content":"<strong>Textract</strong>: Extracts text/data from documents.","children":[],"payload":{"tag":"li","lines":"119,120"}},{"content":"<strong>Transcribe</strong>: Speech-to-Text.","children":[],"payload":{"tag":"li","lines":"120,121"}},{"content":"<strong>Translate</strong>: Language translation.","children":[],"payload":{"tag":"li","lines":"121,122"}},{"content":"<strong>Comprehend</strong>: NLP for sentiment, key phrases, topics.","children":[],"payload":{"tag":"li","lines":"122,123"}},{"content":"<strong>Lex</strong>: Builds conversational chatbots.","children":[],"payload":{"tag":"li","lines":"123,124"}},{"content":"<strong>Polly</strong>: Text-to-Speech.","children":[],"payload":{"tag":"li","lines":"124,125"}},{"content":"<strong>Rekognition</strong>: Image and video analysis.","children":[],"payload":{"tag":"li","lines":"125,126"}},{"content":"<strong>Forecast</strong>: Time-series forecasting.","children":[],"payload":{"tag":"li","lines":"126,127"}},{"content":"<strong>Fraud Detector</strong>: Online fraud detection.","children":[],"payload":{"tag":"li","lines":"127,128"}}],"payload":{"tag":"li","lines":"118,128"}}],"payload":{"tag":"li","lines":"109,128"}}],"payload":{"tag":"h1","lines":"8,9"}},{"colorFreezeLevel":2,"initialExpandLevel":2,"maxWidth":300})</script>
 </body>
 </html>
